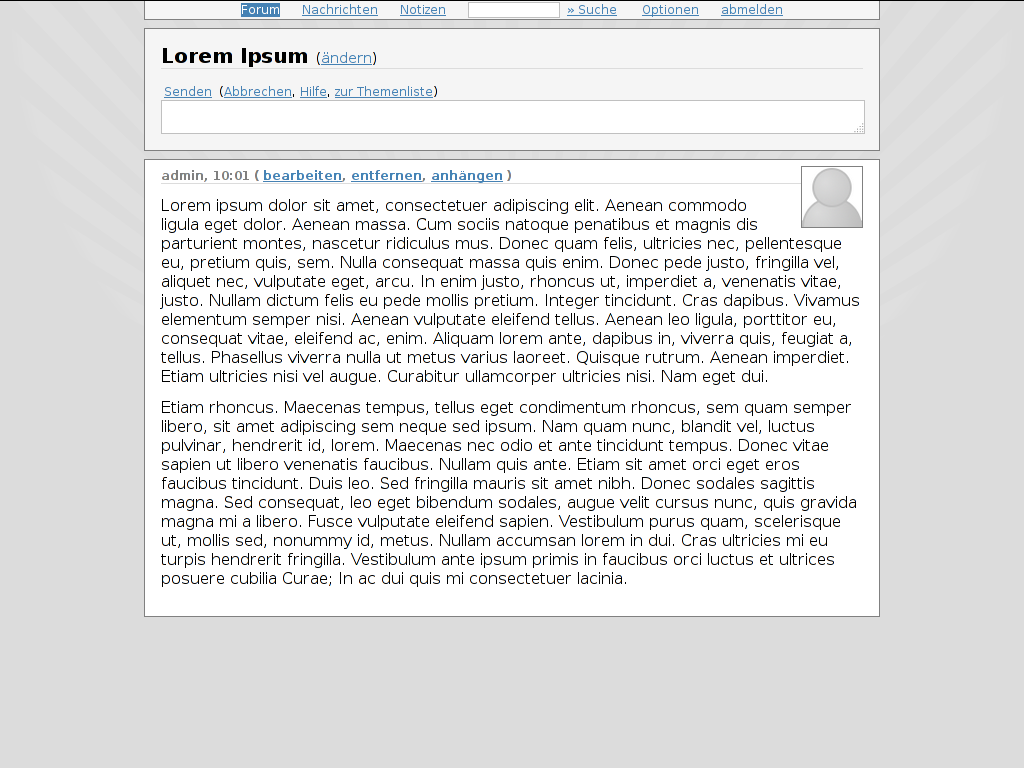
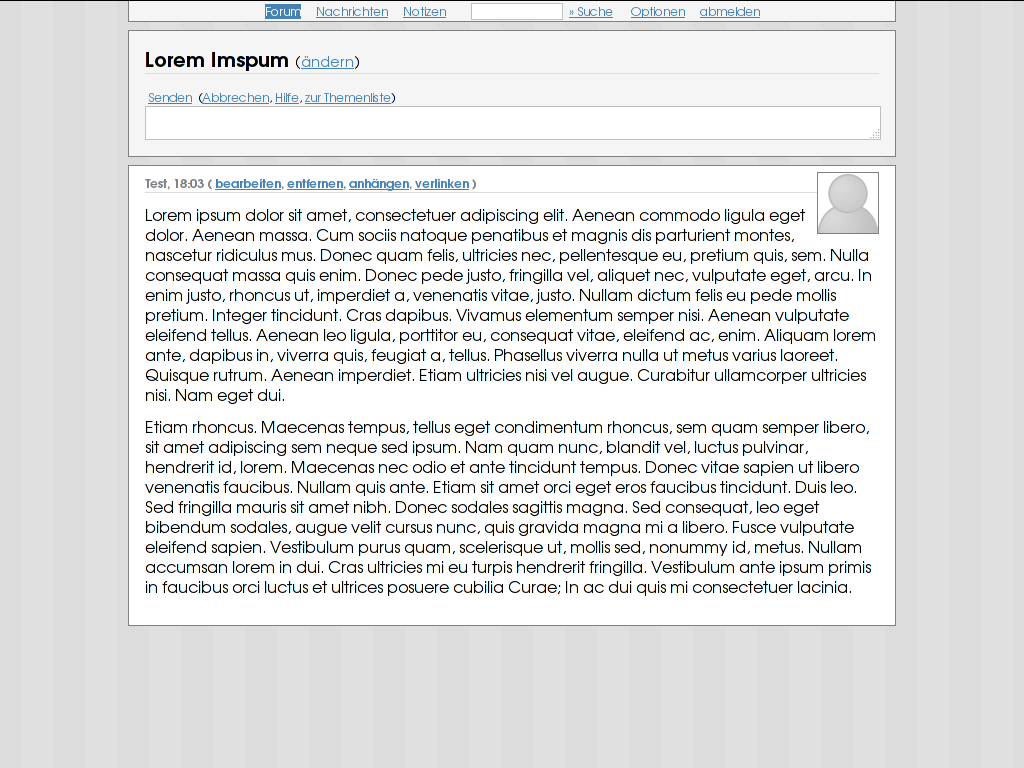
Stripes wie Vorhänge

Changed region(s): [[0.125, 0.0, 0.875, 0.8125]]

diff --git a/public/theme/normal.css b/public/theme/normal.css
@@ -7,7 +7,7 @@ body {
     padding: 0 .5em;
     font-family: sans-serif;
     color: black;
-    background: url('img/hg.png') no-repeat top center fixed gainsboro;
+    background: url('img/stripes.png') fixed gainsboro;
     max-width: 48em;
 }
 body > *, .popup {
